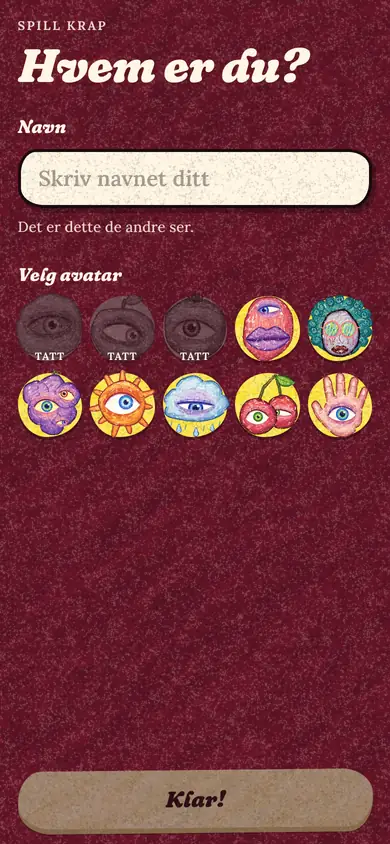
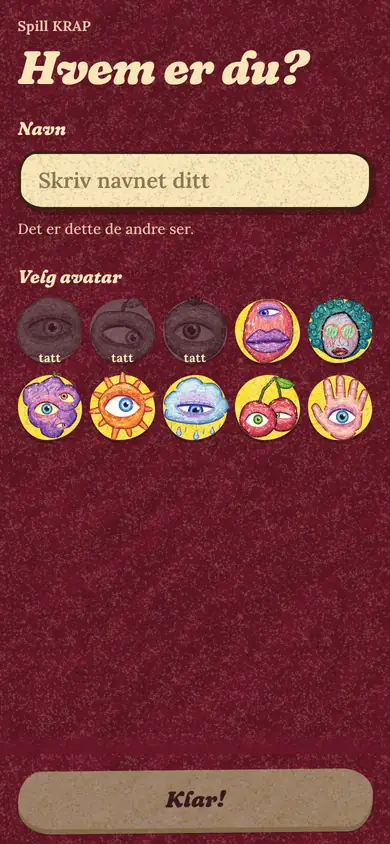
Rollestripen: svaret står ved siden av knappen, og ingen tekst i store bokstaver
- Når man holdt inne «Hold for å se» i stripen over runden, ble selve knappen til riktig svar («C: Frankrike»), akkurat der
  fingeren ligger. Nå endrer knappen aldri tekst. Alt som kommer fram står til venstre for den: «Du er Imposter», «Riktig svar:
  C: Frankrike» og, med to imposterer, «Sammen med Kari» / «To av dere er imposterer». Knappen står øverst og flytter seg ikke
  når teksten ved siden av vokser, og den ser trykket ut mens den holdes. Rollekortet på rolleskjermen sto allerede over knappen.
- Ingen tekst står lenger i STORE BOKSTAVER: «Din rolle», rolleordet («Imposter», «Lojal»), etiketter over felt, «Riktig svar»,
  «tatt»-merket, merkelappene i lobbyen og etikettene i stilguiden bruker vanlig stor forbokstav. Bare feltet for spillkoden
  har store bokstaver, siden en kode skrives sånn. Uten store bokstaver er teksten litt høyere, så etikettene er gjort litt
  større og bokstavavstanden er tatt bort.
- Den åpne stripen er høyere enn før (opptil tre linjer). Alle skjermer som skal passe uten rulling passer fortsatt på
  390×664 og 360×640 (fit.mjs).

Tester og verktøy:
- Ny regel 6 i overlap.mjs (tools/qa/underfinger.mjs): på hver skjerm som vises med knappene holdt inne er det feil om tekst
  som kommer fram ligger på eller under knappen. Selvtesten bryter oppsettet med vilje på en fjerde måte og sjekker at regelen slår ut.
- play.mjs sjekker det samme mens knappene holdes, at knappen i stripen alltid heter «Hold for å se», at imposteren ser
[…]

diff --git a/public/css/components.css b/public/css/components.css
@@ -157,7 +157,7 @@
 
 /* Compact variant: number with a tiny unit underneath, for tight spaces */
 .segmented--compact .segmented__item { min-height: 2.9rem; padding: 0.3rem 0.2rem; font-size: 1.3rem; }
-.segmented--compact .segmented__item small { margin-top: 0.1rem; font-size: 0.62rem; letter-spacing: 0.06em; text-transform: uppercase; }
+.segmented--compact .segmented__item small { margin-top: 0.1rem; font-size: 0.72rem; letter-spacing: 0.02em; }
 
 /* ---- Avatar ------------------------------------------------------------------ */
 .avatar {
@@ -251,7 +251,7 @@
   line-height: 1.15;
   overflow-wrap: anywhere;
 }
-.player__tag { font-size: 0.7rem; font-weight: 700; letter-spacing: 0.1em; text-transform: uppercase; color: var(--yellow); }
+.player__tag { font-size: 0.78rem; font-weight: 700; letter-spacing: 0.02em; color: var(--yellow); }
 .player--empty .avatar { background: transparent; box-shadow: inset 0 0 0 3px rgb(var(--cream-rgb) / 0.3); border-radius: 50%; animation: pulse 2s ease-in-out infinite; }
 .player--empty { animation: none; opacity: 0.85; }
 .player-grid { display: flex; flex-wrap: wrap; justify-content: center; gap: var(--s-4) var(--s-3); }
@@ -281,10 +281,9 @@
   content: 'tatt';
   position: absolute;
   inset: auto 0 -0.2rem;
-  font-size: 0.66rem;
+  font-size: 0.76rem;
   font-weight: 700;
-  letter-spacing: 0.08em;
-  text-transform: uppercase;
+  letter-spacing: 0.02em;
   color: var(--cream);
   text-align: center;
 }
@@ -517,10 +516,13 @@
 
 /* ---- Role strip --------------------------------------------------------------------
    Reminds you of your role above the game screens. It is the same for everybody (a quiet strip that says "your role") until a
-   finger holds its button: then it turns into a cream strip with the role, and for the imposter the right answer. */
+   finger holds its button. Then it turns cream and says who you are, and for an imposter the right answer and who the other
+   impostor is. All of that stands BESIDE the button, on its left, and never in it or under it: the finger covers what is there.
+   The button itself never changes its text, and stays at the top, so it does not move away from under the finger when the text
+   beside it grows. */
 .role-strip {
   display: flex;
-  flex-wrap: wrap; /* with big text the button drops to a second line instead of leaving the screen */
+  flex-wrap: wrap; /* with extreme text sizes the button drops to a line of its own instead of leaving the screen */
   align-items: center;
   justify-content: space-between;
   gap: var(--s-2) var(--s-3);
@@ -529,22 +531,28 @@
   font-weight: 700;
   font-size: var(--fs-small);
 }
+.role-strip__info { flex: 1 1 9rem; min-width: 0; display: grid; }
 .role-strip strong { font-family: var(--font-display); font-weight: 900; font-size: 1.2rem; letter-spacing: 0.01em; }
 .role-strip--hidden { color: var(--cream); background: var(--tex-grain), var(--tex-dark), var(--surface-deep); box-shadow: inset 0 0 0 2px rgb(var(--cream-rgb) / 0.14), 0 3px 0 var(--edge); }
-.role-strip--open { color: var(--ink); background: var(--tex-grain), var(--cream); box-shadow: 0 3px 0 var(--edge); }
+.role-strip--open { align-items: flex-start; color: var(--ink); background: var(--tex-grain), var(--cream); box-shadow: 0 3px 0 var(--edge); }
+/* the first line sits level with the button, whatever comes below it */
+.role-strip__who { line-height: 2.05rem; } /* (as tall as the button) */
 .role-strip__impostor { color: var(--red); }
-.role-strip__row { flex: 1 1 100%; font-size: 0.85rem; font-weight: 600; } /* with two impostors: who the other one is */
 .role-strip__loyal { color: var(--blue); }
+.role-strip__line { font-size: 0.85rem; font-weight: 600; line-height: 1.3; overflow-wrap: anywhere; }
+/* "Riktig svar:" and the answer stay together as long as they fit, and otherwise the answer moves to the next line as a whole */
+.role-strip__line--answer { display: flex; flex-wrap: wrap; align-items: baseline; column-gap: 0.35rem; line-height: 1.2; }
+.role-strip__answer { font-family: var(--font-display); font-weight: 900; font-size: 1.05rem; }
 
 .secret {
   flex: none;
-  min-width: 8.5rem;
-  padding: 0.3rem 0.8rem;
+  min-width: 7rem;
+  padding: 0.3rem 0.7rem;
   border: 0;
   border-radius: var(--r-pill);
   font-family: var(--font-display);
   font-weight: 900;
-  font-size: 1.05rem;
+  font-size: 1rem;
   color: var(--ink);
   background: var(--tex-grain), var(--tex-light), var(--yellow);
   box-shadow: 0 3px 0 var(--yellow-deep);
@@ -553,6 +561,7 @@
   -webkit-touch-callout: none;
   touch-action: none;
 }
+.secret--held { transform: translateY(2px); box-shadow: 0 1px 0 var(--yellow-deep); }
 
 /* ---- Confetti ------------------------------------------------------------------ */
 .confetti { position: fixed; inset: 0; z-index: -1; overflow: hidden; pointer-events: none; } /* behind the text, inside the screen's own stacking context */

diff --git a/public/js/ui.js b/public/js/ui.js
@@ -91,16 +91,19 @@ export function Sheet({ title, onClose, children }) {
 export function RoleStrip({ you, impostors = 1 }) {
   const { held, bind } = useHold();
   const impostor = you.role === 'impostor';
+  // What the hold reveals stands beside the button, never in it or under it: the finger covers what is there.
   return html`<div class=${cx('role-strip', held ? 'role-strip--open' : 'role-strip--hidden')}>
-    ${held
-      ? html`<span>Du er <strong class=${impostor ? 'role-strip__impostor' : 'role-strip__loyal'}>${impostor ? 'IMPOSTER' : 'LOJAL'}</strong></span>`
-      : html`<span>Din rolle</span>`}
-    <button type="button" class="secret" ...${bind} aria-label="Hold inne for å se rollen din">
-      ${held ? (impostor ? `${you.secret.letter}: ${you.secret.text}` : 'Ikke bli lurt!') : 'Hold for å se'}
-    </button>
-    ${held &&
-    impostors > 1 &&
-    html`<span class="role-strip__row">${impostor ? `Sammen med ${joinNames(matesOf(you).map((m) => m.name))}` : 'Det er to imposterer blant dere'}</span>`}
+    <div class="role-strip__info">
+      ${held
+        ? html`<span class="role-strip__who">Du er <strong class=${impostor ? 'role-strip__impostor' : 'role-strip__loyal'}>${impostor ? 'Imposter' : 'Lojal'}</strong></span>
+            ${impostor
+              ? html`<span class="role-strip__line role-strip__line--answer"><span>Riktig svar:</span><span class="role-strip__answer">${you.secret.letter}:\u00a0${you.secret.text}</span></span>`
+              : html`<span class="role-strip__line">Ikke bli lurt!</span>`}
+            ${impostors > 1 &&
+            html`<span class="role-strip__line">${impostor ? `Sammen med ${joinNames(matesOf(you).map((m) => m.name))}` : 'To av dere er imposterer'}</span>`}`
+        : html`<span>Din rolle</span>`}
+    </div>
+    <button type="button" class=${cx('secret', held && 'secret--held')} ...${bind} aria-label="Hold inne for å se rollen din">Hold for å se</button>
   </div>`;
 }
 

diff --git a/public/design-system/index.html b/public/design-system/index.html
@@ -271,10 +271,10 @@
     </div>
     <div class="ds-grid ds-grid--wide">
       <div class="ds-phone">
-        <div class="role-strip role-strip--hidden" data-role-strip="IMPOSTER|role-strip__impostor|C: Frankrike"><span data-label>Din rolle</span><button class="secret" type="button">Hold for å se</button></div>
-        <div class="role-strip role-strip--hidden" data-role-strip="LOJAL|role-strip__loyal|Ikke bli lurt!"><span data-label>Din rolle</span><button class="secret" type="button">Hold for å se</button></div>
+        <div class="role-strip role-strip--hidden" data-role-strip="Imposter|role-strip__impostor|C: Frankrike"><div class="role-strip__info"><span>Din rolle</span></div><button class="secret" type="button">Hold for å se</button></div>
+        <div class="role-strip role-strip--hidden" data-role-strip="Lojal|role-strip__loyal|"><div class="role-strip__info"><span>Din rolle</span></div><button class="secret" type="button">Hold for å se</button></div>
       </div>
-      <p class="ds-note">De to stripene er helt like til en finger holder knappen. Da blir stripen kremhvit og viser rollen (imposteren ser også riktig svar), og slipper du, skjules den igjen. Rollen står aldri fremme for de som kikker over skulderen. Det gjelder også rolleskjermen, som er en tom plass til du holder knappen. Prøv selv.</p>
+      <p class="ds-note">De to stripene er helt like til en finger holder knappen. Da blir stripen kremhvit og viser rollen (imposteren ser også riktig svar), og slipper du, skjules den igjen. Alt som kommer fram står til venstre for knappen, aldri i den eller under den, for der dekker fingeren det. Rollen står aldri fremme for de som kikker over skulderen. Det gjelder også rolleskjermen, som er en tom plass til du holder knappen. Prøv selv.</p>
     </div>
 
     <h3>Poengtavle og fremdrift</h3>

diff --git a/public/css/screens.css b/public/css/screens.css
@@ -130,11 +130,11 @@ html[data-theme='wrong'] .dock { --dock-tex: var(--tex-light-soft); }
 }
 .rolecard__head { display: flex; flex-wrap: wrap; align-items: center; gap: 0.3rem 0.75rem; }
 .rolecard__eye { flex: none; width: 3.1rem; height: auto; }
-.rolecard__word { min-width: 0; font-size: 1.85rem; line-height: 1; letter-spacing: 0.005em; text-transform: uppercase; }
+.rolecard__word { min-width: 0; font-size: 2.1rem; line-height: 1; letter-spacing: 0.005em; }
 .rolecard__word--impostor { color: var(--red); }
 .rolecard__word--loyal { color: var(--blue); }
 .rolecard__answer { display: grid; gap: 0.25rem; padding-top: 0.55rem; border-top: 2px dashed rgb(var(--ink-rgb) / 0.28); }
-.rolecard__label { font-size: 0.7rem; font-weight: 700; letter-spacing: 0.14em; text-transform: uppercase; color: rgb(var(--ink-rgb) / 0.75); }
+.rolecard__label { font-size: 0.8rem; font-weight: 700; letter-spacing: 0.02em; color: rgb(var(--ink-rgb) / 0.75); }
 .rolecard__pill {
   display: flex;
   align-items: center;
@@ -222,7 +222,7 @@ html[data-theme='wrong'] .dock { --dock-tex: var(--tex-light-soft); }
 .reveal { color: var(--ink); text-align: center; }
 .reveal__body { display: flex; flex-direction: column; align-items: center; justify-content: center; gap: var(--s-4); }
 .reveal__art { width: min(70vw, 15rem, 32vh, 32dvh); height: auto; animation: wobble 3.5s ease-in-out infinite; }
-.reveal__word { font-size: clamp(3.4rem, 18vw, 6rem); text-transform: uppercase; color: var(--cream); text-shadow: 5px 6px 0 var(--ink); }
+.reveal__word { font-size: clamp(3.4rem, 18vw, 6rem); color: var(--cream); text-shadow: 5px 6px 0 var(--ink); }
 .reveal__answer { width: min(100%, 20rem); }
 .reveal .lead { font-weight: 700; }
 

diff --git a/public/design-system/ds.js b/public/design-system/ds.js
@@ -135,15 +135,18 @@ document.querySelectorAll('[data-segmented]').forEach((group) => {
   });
 });
 document.querySelectorAll('[data-role-strip]').forEach((strip) => {
-  // "ORD|klasse|tekst på knappen mens den holdes": stripen er lik for alle til en finger holder knappen
-  const [word, cls, openText] = strip.dataset.roleStrip.split('|');
+  // "ord|klasse|svar": stripen er lik for alle til en finger holder knappen. Det som kommer fram står ved siden av knappen
+  // (aldri i den eller under den, der dekker fingeren det), og knappen endrer ikke tekst.
+  const [word, cls, answer] = strip.dataset.roleStrip.split('|');
   const btn = strip.querySelector('.secret');
-  const label = strip.querySelector('[data-label]');
+  const info = strip.querySelector('.role-strip__info');
   const set = (open) => {
     strip.classList.toggle('role-strip--open', open);
     strip.classList.toggle('role-strip--hidden', !open);
-    label.innerHTML = open ? `Du er <strong class="${cls}">${word}</strong>` : 'Din rolle';
-    btn.textContent = open ? openText : 'Hold for å se';
+    btn.classList.toggle('secret--held', open);
+    info.innerHTML = open
+      ? `<span class="role-strip__who">Du er <strong class="${cls}">${word}</strong></span>${answer ? `<span class="role-strip__line role-strip__line--answer"><span>Riktig svar:</span><span class="role-strip__answer">${answer.replace(': ', ':&nbsp;')}</span></span>` : '<span class="role-strip__line">Ikke bli lurt!</span>'}`
+      : '<span>Din rolle</span>';
   };
   btn.addEventListener('pointerdown', (e) => { e.preventDefault(); set(true); });
   ['pointerup', 'pointerleave', 'pointercancel', 'blur'].forEach((ev) => btn.addEventListener(ev, () => set(false)));

diff --git a/public/design-system/ds.css b/public/design-system/ds.css
@@ -45,7 +45,7 @@ body.ds { padding: 0; }
 .ds-demo { padding: 1.4rem; border-radius: var(--r-card); background: rgb(var(--shadow-rgb) / 0.28); box-shadow: inset 0 0 0 2px rgb(var(--cream-rgb) / 0.08); }
 .ds-demo--light { color: var(--ink); background: var(--tex-grain), var(--cream); }
 .ds-demo--yellow { color: var(--ink); background: var(--tex-grain), var(--tex-light), var(--yellow); }
-.ds-label { font-size: var(--fs-micro); font-weight: 700; letter-spacing: 0.12em; text-transform: uppercase; color: var(--fg-muted); }
+.ds-label { font-size: 0.82rem; font-weight: 700; letter-spacing: 0.02em; color: var(--fg-muted); }
 .ds-demo--light .ds-label, .ds-demo--yellow .ds-label { color: rgb(var(--ink-rgb) / 0.65); }
 .ds-note { font-size: var(--fs-small); color: var(--fg-muted); max-width: 46rem; }
 code, .ds code { font-family: ui-monospace, 'SF Mono', Menlo, Consolas, monospace; font-size: 0.82em; padding: 0.12em 0.45em; border-radius: 6px; background: rgb(var(--shadow-rgb) / 0.45); color: var(--yellow-pale); }

diff --git a/public/css/base.css b/public/css/base.css
@@ -107,12 +107,12 @@ button { touch-action: manipulation; }
 .center { text-align: center; }
 .muted { color: var(--fg-muted); }
 .lead { font-size: var(--fs-lead); line-height: 1.35; }
+/* (ordinary lower-case text: no capitals, and no wide letter-spacing, which only made sense for capitals) */
 .eyebrow {
   font-family: var(--font-text);
-  font-size: var(--fs-micro);
+  font-size: 0.88rem;
   font-weight: 700;
-  letter-spacing: 0.14em;
-  text-transform: uppercase;
+  letter-spacing: 0.01em;
   color: var(--fg-muted);
 }
 .sr-only {

diff --git a/docs/DESIGN-SYSTEM.md b/docs/DESIGN-SYSTEM.md
@@ -24,7 +24,7 @@ Disputt ser ut som en tegning med fargestifter på burgunder papir: flate krittf
 
 **Aldri ren hvit eller svart.** «Hvitt» er en smørkrem (`--cream`, `#f8e6b8`) og «svart» en mørk sjokoladebrun (`--ink`, `#3a2012`): all tekst, logoen, papirkort, kremknapper og QR-koden (brune moduler på kremfarget bunn) bruker dem. Gjennomsiktige varianter lages av kanalene (`rgb(var(--cream-rgb) / .5)`, `--ink-rgb`, og `--shadow-rgb` for de harde kritt-skyggene), så paletten står ett sted. Rollefargene som tekst på kremfarget kort skal holde minst 4,5:1 i kontrast, og det er derfor `--red` og `--blue` er så dype som de er. Stilguiden (`/design-system/`) viser kontrasten for alle fargene.
 
-**Typografi:** `--font-display` (Fraunces, tung kursiv, *soft + wonky*) til overskrifter, knapper, tall og navn på store flater; `--font-text` (Lora) til alt annet. Skala: `--fs-hero --fs-h1 --fs-h2 --fs-h3 --fs-lead --fs-body --fs-small --fs-micro`.
+**Typografi:** ingen tekst står i STORE BOKSTAVER, heller ikke etiketter over felt (`.eyebrow`) eller rolleordet: `text-transform: uppercase` brukes ikke, bortsett fra i feltet der man skriver spillkoden, siden en kode skrives med store bokstaver. `--font-display` (Fraunces, tung kursiv, *soft + wonky*) til overskrifter, knapper, tall og navn på store flater; `--font-text` (Lora) til alt annet. Skala: `--fs-hero --fs-h1 --fs-h2 --fs-h3 --fs-lead --fs-body --fs-small --fs-micro`.
 
 **Rom:** 4 px-rutenett (`--s-1…7`), `--page-x/top/bottom` tar hensyn til hakk og hjemmelinje (`env(safe-area-inset-*)`).
 
@@ -63,11 +63,11 @@ En flate = en flat farge + korn + strek:
 
 ## Roller skal ikke synes for andre
 
-En telefon som er rød eller blå, eller som viser et stort «IMPOSTER», røper rollen til alle i rommet. Derfor:
+En telefon som er rød eller blå, eller som viser et stort «Imposter», røper rollen til alle i rommet. Derfor:
 
 - **Rolleskjermen (8 s) viser ingenting om rollen før en finger holder knappen.** Resten av tiden er den en tom, stiplet plass for kortet, helt lik for lojale og imposter. Kortet (øye, rollens navn i `--red`/`--blue`, riktig svar eller «?») er like stort for begge roller, og forsvinner når fingeren løftes (`public/js/hold.js`). Plassen tar resten av høyden i skjermen, så et høyere kort aldri skyver knappen bort fra under fingeren.
-- **Stripen under runden** (`RoleStrip`) er lik for alle («Din rolle · Hold for å se») og viser rollen, og for imposteren svaret, bare mens den holdes.
-- **To imposterer (fra seks spillere):** kortet har en tredje del, «Imposterne». Imposterne ser «Du og Kari» med Karis avatar, de lojale et «?» med «Finn dem sammen», så kortene er like store for begge roller. Stripen får en ekstra linje mens den holdes («Sammen med Kari» / «Det er to imposterer blant dere»). Rundens antall imposterer er ingen hemmelighet og står i `view.turn.impostors`; hvem de er står bare i imposterens egen visning (`you.mates`).
+- **Stripen under runden** (`RoleStrip`) er lik for alle («Din rolle · Hold for å se») og viser rollen, og for imposteren svaret, bare mens den holdes. **Det som kommer fram står til venstre for knappen, aldri i den eller under den**, for der dekker fingeren det: knappen endrer ikke tekst og flytter seg ikke når teksten ved siden av vokser. Det samme gjelder rollekortet, som står over knappen. `npm run qa:overlap` sjekker det (regel 6, med selvtest).
+- **To imposterer (fra seks spillere):** kortet har en tredje del, «Imposterne». Imposterne ser «Du og Kari» med Karis avatar, de lojale et «?» med «Finn dem sammen», så kortene er like store for begge roller. Stripen får en ekstra linje mens den holdes («Sammen med Kari» / «To av dere er imposterer»). Rundens antall imposterer er ingen hemmelighet og står i `view.turn.impostors`; hvem de er står bare i imposterens egen visning (`you.mates`).
 - **Alt annet som ellers kunne røpet rollen er likt:** vibrasjonen ved rolleskjermen, tipset under klokka, og nettleserfargen (`theme-color`). Sidetemaer (`html[data-theme]`) finnes bare for dommen til den som svarer.
 - QA kan vise alt som «holdt» uten finger: `setStore({ qaHold: true })` (se `useHold`).
 

diff --git a/README.md b/README.md
@@ -33,7 +33,7 @@ Gode råd, fordi siden kjører uten spillserver (se [docs/P2P.md](docs/P2P.md)):
 - **Imposter og spørsmålsstiller er rent tilfeldige** (kryptografisk tilfeldig), uavhengig av hverandre. Samme spiller kan være begge deler, og samme person kan bli imposter flere ganger på rad.
 - **To imposterer fra seks spillere.** Antallet regnes ved starten av hver runde, blant spillerne som er med i runden (en telefon som er borte teller ikke). Fra seks er det to ulike imposterer, som begge får vite riktig svar og hvem den andre er; på rolleskjermen står det «Du og Kari», mens lojale ser et «?» på samme sted, så kortene er like store. Poengene gis til alle på vinnersiden: riktig svar gir de lojale 1 poeng hver, feil svar gir begge imposterne 1 poeng hver. Faller én imposter ut midt i en runde (verten fjerner en frakoblet spiller), fortsetter runden med den som er igjen; er ingen igjen, hoppes runden over. Verten ser «to imposterer» i lobbyen når det blir seks tilkoblede.
 - **Poengene telles først når spilleren som svarte trykker «Gå videre»**, så poengtavlen ikke røper utfallet før avsløringen.
-- **Rollen (og imposterens riktige svar) kan sees igjen** under runden ved å holde inne knappen i stripen øverst («Hold for å se»). Slipper man, skjules den. Stripen, tipset under klokka og vibrasjonen er like for begge roller, så ingenting på skjermen røper hvem som er imposter.
+- **Rollen (og imposterens riktige svar) kan sees igjen** under runden ved å holde inne knappen i stripen øverst («Hold for å se»). Det som kommer fram står ved siden av knappen, så fingeren ikke dekker det. Slipper man, skjules det. Stripen, tipset under klokka og vibrasjonen er like for begge roller, så ingenting på skjermen røper hvem som er imposter.
 - **Logoen i lobbyen er en knapp** som tar deg tilbake til hjemskjermen, etter en bekreftelse. En gjest forlater spillet (og kan bli med igjen med koden så lenge spillet ikke har startet). Verten av et spill på GitHub Pages avslutter spillet for alle, fordi vertens side *er* spillet.
 - **Mistet forbindelsen?** Telefoner som sovner eller laster siden på nytt kommer rett tilbake til samme sted. Har en spiller mistet nettleseren helt, kan hen velge seg selv fra «Spillet har startet»-skjermen. Faller verten ut, overtar en annen spiller vertsrollen (etter 3 minutter under spillet, 10 minutter i lobbyen). Verten kan hoppe over en runde som står fast, eller fjerne en frakoblet spiller.
 - **Bare de som er med i runden kan score på den.** Er en spiller borte når runden starter, får hen verken rolle eller poeng for den runden, så ingen kan «vinne» ved å være fraværende.
